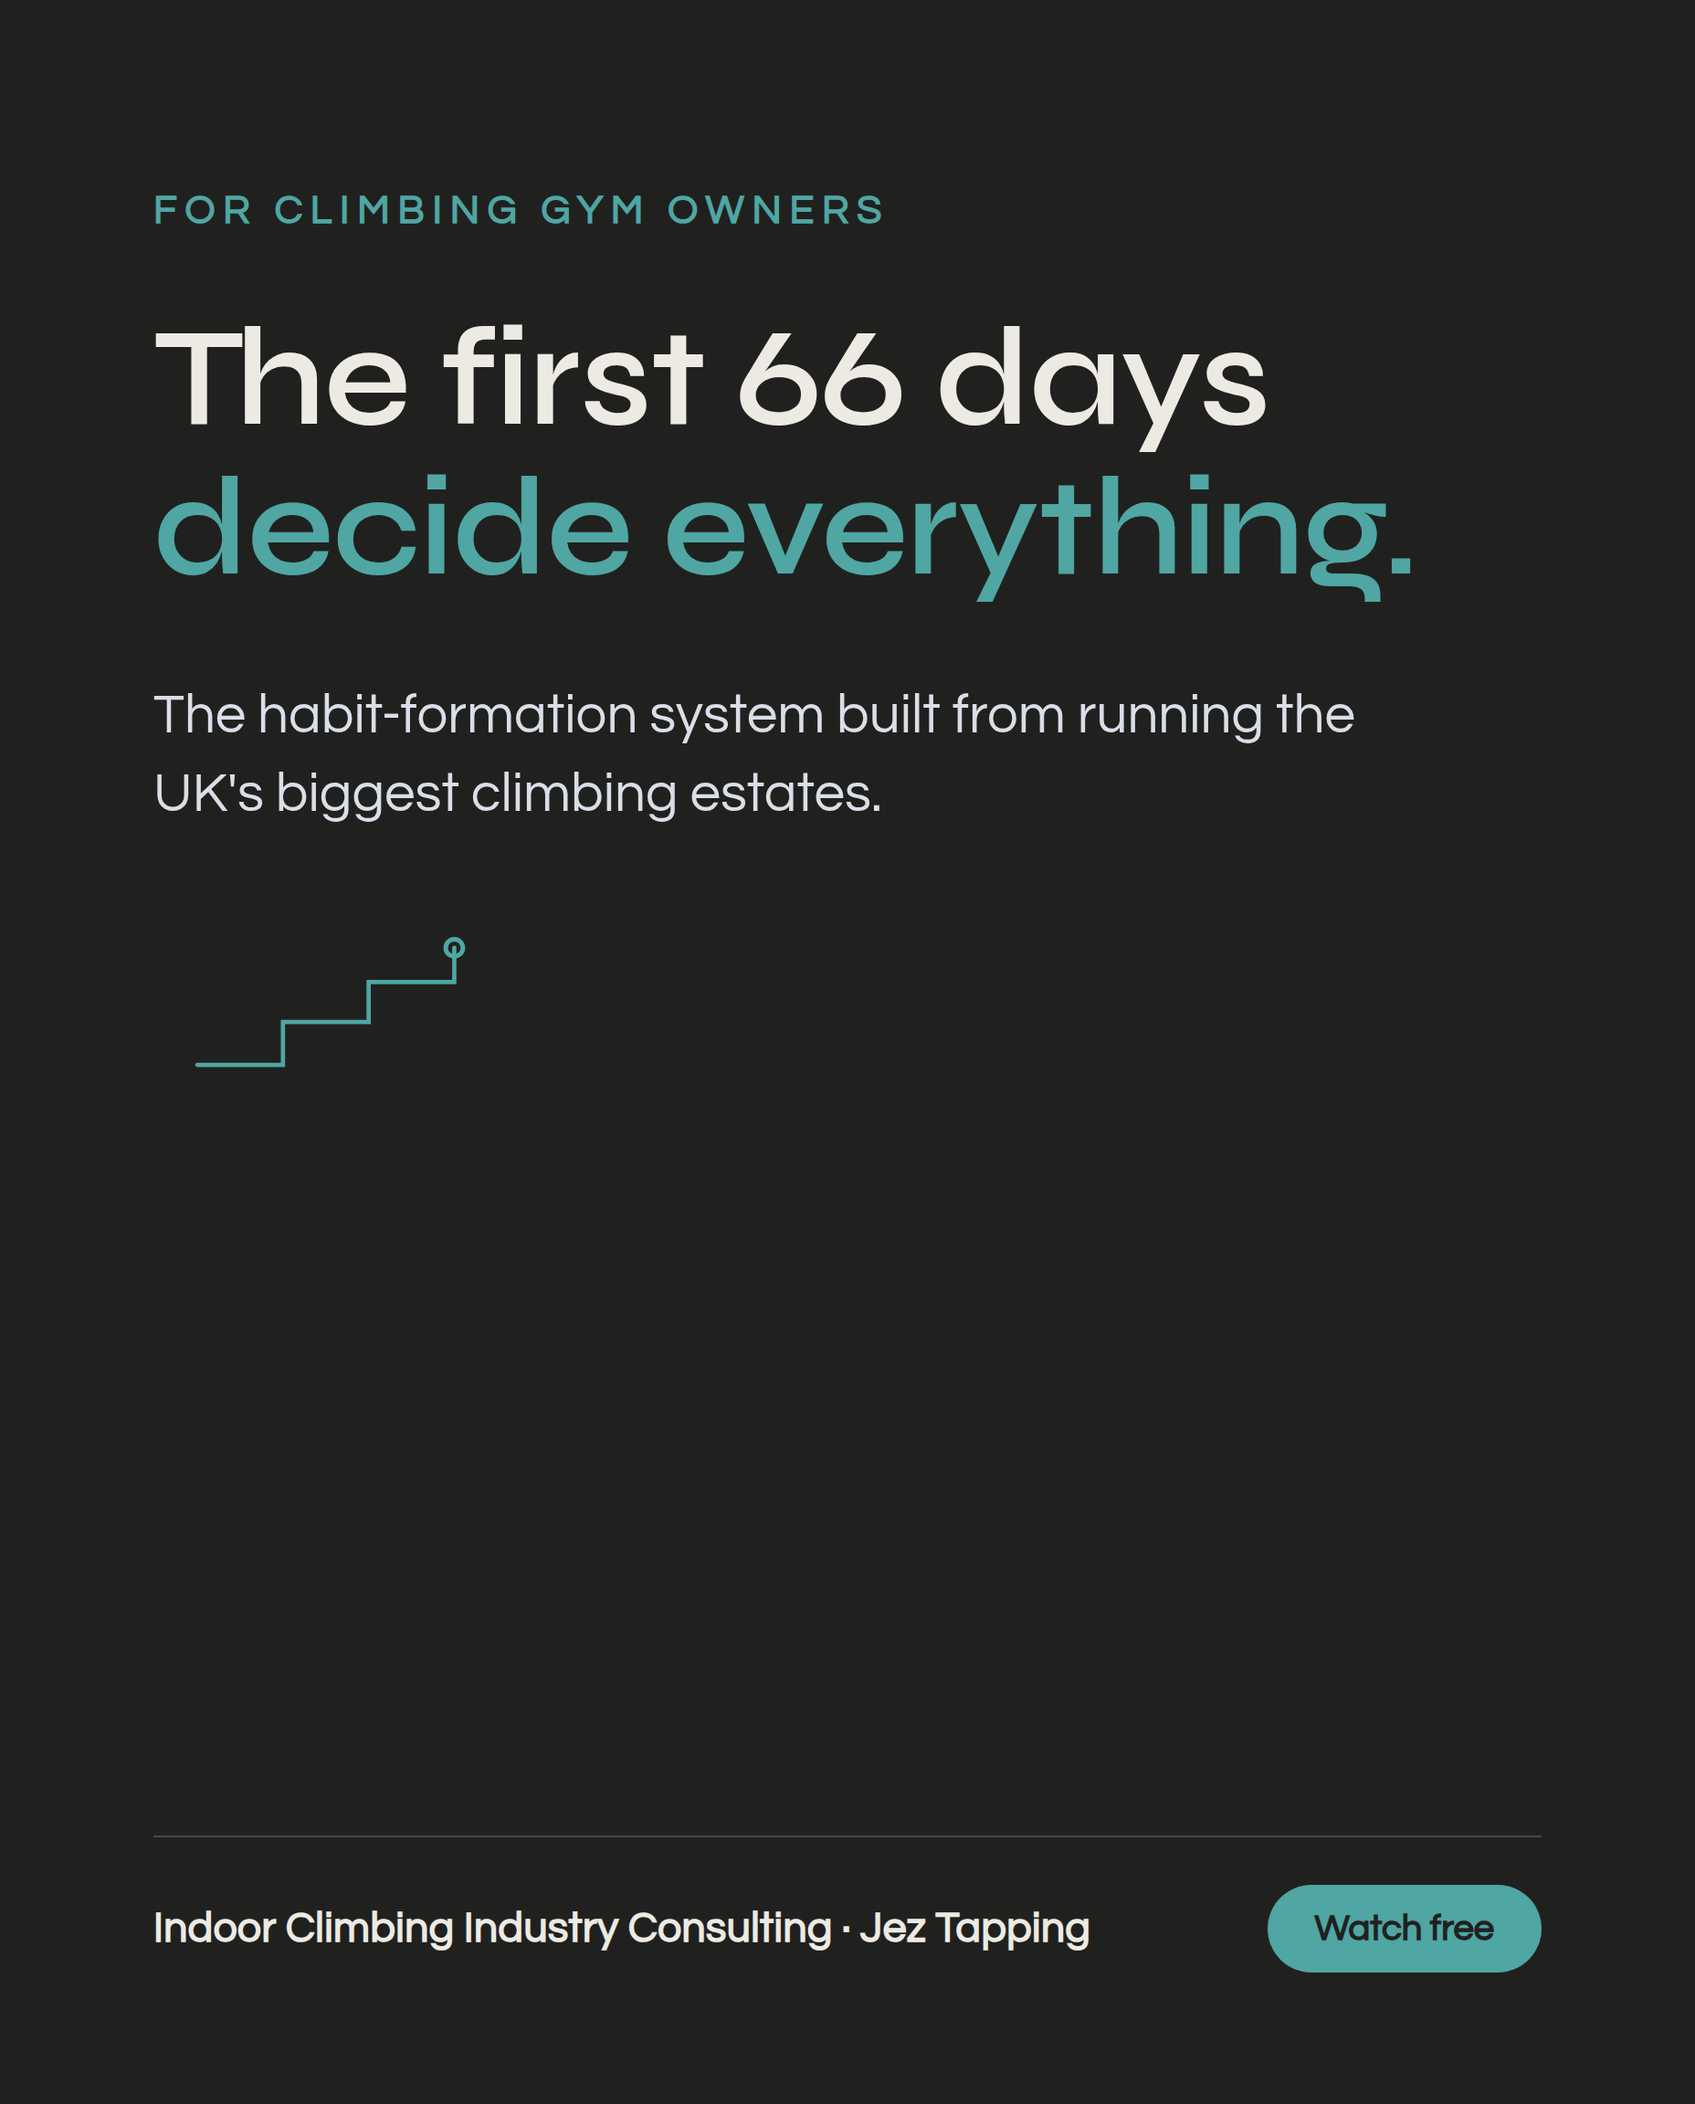
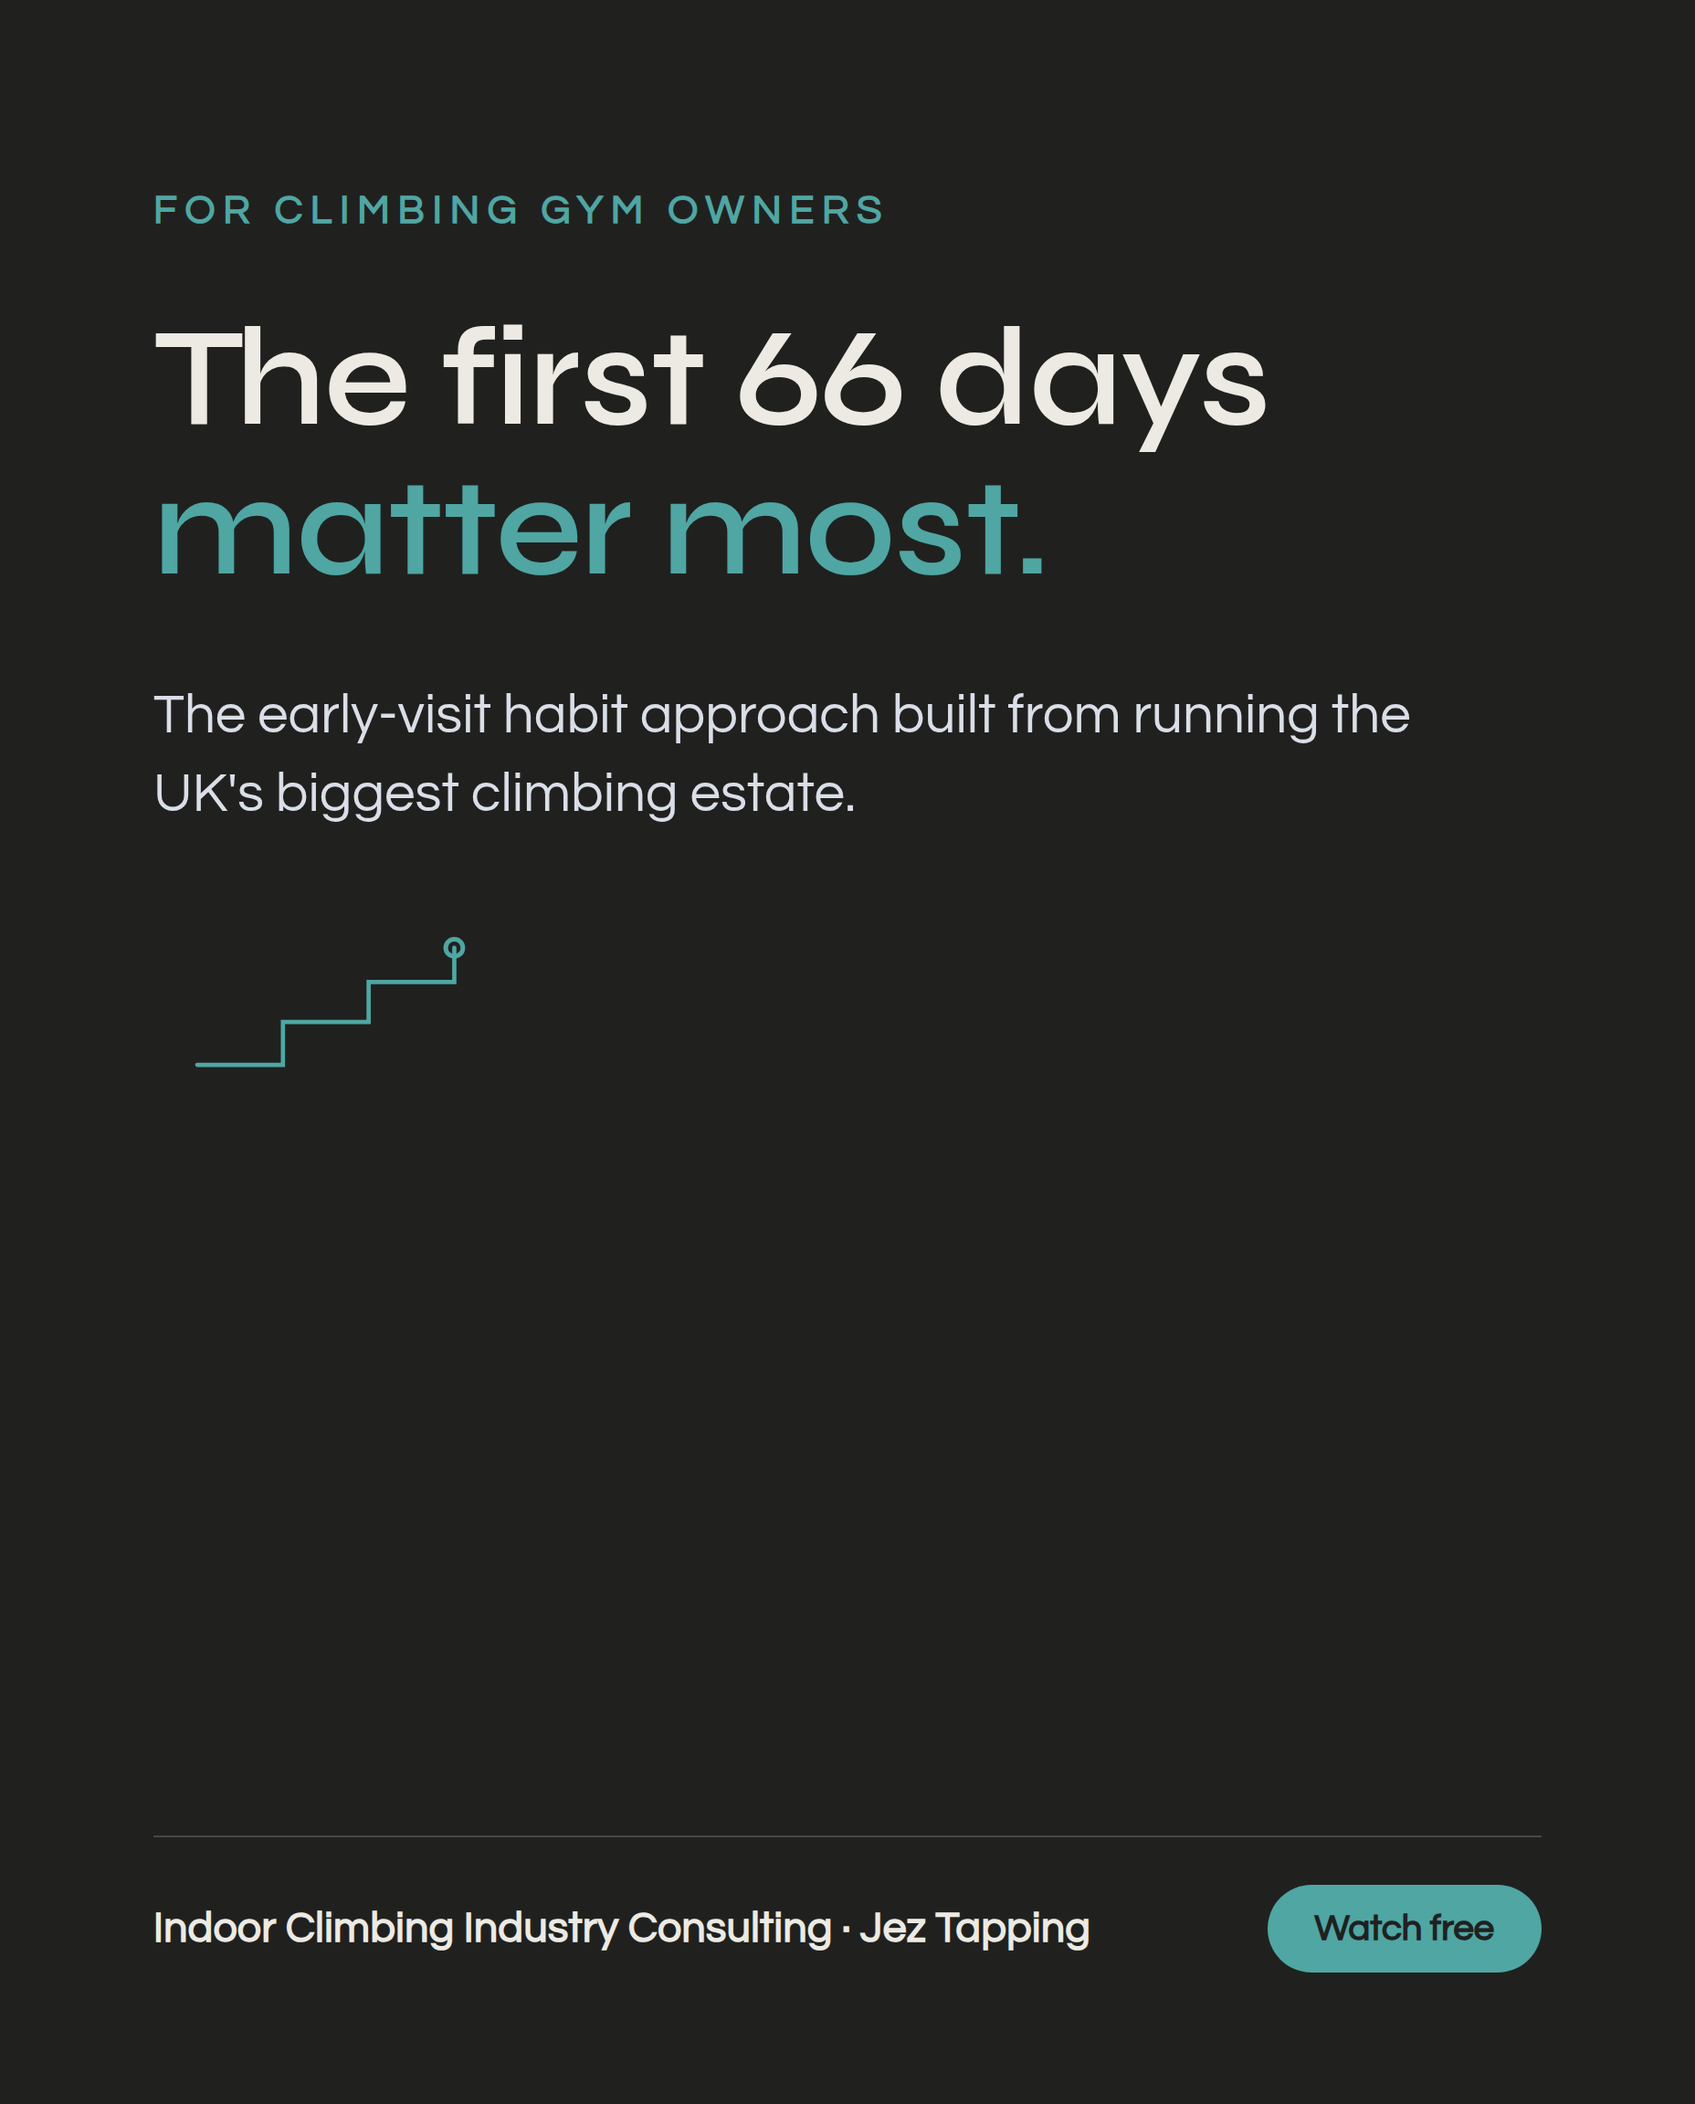
showcase: jez-tapping

Changed region(s): [[0.0938, 0.2188, 0.8125, 0.2812], [0.1875, 0.3125, 0.8125, 0.375]]

diff --git a/jez-tapping/deck.html b/jez-tapping/deck.html
@@ -82,23 +82,23 @@
 
 <script>
 const S = [
- {t:'title',title:'The First 66 Days',sub:'A masterclass for climbing gym owners on the habit-formation system that decides whether a first-timer becomes a member, built from running the UK\'s largest climbing estates.',brand:true,arc:'title'},
- {t:'normal',k:'Who this is for',title:'You are pouring effort into intro courses, then losing most of those climbers within a month.',body:'Most climbing gym marketing is built to fill intro-to-climbing courses. That part usually works. What almost no gym has is a system for the eight weeks after the course ends, which is the window that actually decides whether that person becomes a member.'},
- {t:'dark',title:'A full intro class means nothing if nobody comes back for month two.'},
+ {t:'title',title:'The First 66 Days',sub:'A masterclass for climbing gym owners on the early-visit habit that predicts who sticks around, built by someone who ran the UK\'s largest climbing estate.',brand:true,arc:'title'},
+ {t:'normal',k:'Who this is for',title:'You are pouring effort into intro courses, and losing a chunk of those climbers inside the first couple of months.',body:'Most climbing gym marketing is built to fill intro-to-climbing courses. That part usually works. What a lot of gyms don\'t have is a system for the weeks right after the course ends, which is roughly the window that decides whether that person becomes a member.'},
+ {t:'dark',title:'A full intro class means little if nobody comes back for month two.'},
 
- {t:'section',idx:'Part One',title:'Retention Is a Habit Problem, Not a Discount Problem'},
- {t:'normal',k:'The Customer Journey Framework',title:'Casual climbers, coached climbers, juniors and adults all need a different path through your gym.',body:'A drop-in visitor, a coached-program starter, a junior, and an adult are not walking the same journey even though most gyms run them through the same generic onboarding. Design the journey to the segment, and the safety, satisfaction, and growth all improve together instead of trading off against each other.'},
- {t:'normal',k:'The 66-Day Habit Formation Method',title:'The target is 66 visits inside the first two months after an intro course.',body:'Habit-formation research points to roughly 66 days of repetition before a new behaviour sticks. Applied to a climbing gym, that means the first eight weeks after someone\'s intro course are the actual conversion window, not the course itself. Everything in the system below exists to hit that visit count.'},
- {t:'dark',title:'You are not selling a membership. You are engineering a habit.'},
+ {t:'section',idx:'Part One',title:'Retention Is a Habit Problem, Not Just a Discount Problem'},
+ {t:'normal',k:'A journey built around the segment, not one generic path',title:'A casual drop-in and a structured, coached climber, junior or adult, are not walking the same journey.',body:'Most gyms run everyone through the same generic onboarding. Design the journey to the segment instead, drop-in visitors one way, coached-program starters (juniors and adults each with their own path within that) another, and safety, satisfaction, and growth tend to improve together instead of trading off against each other.'},
+ {t:'normal',k:'The 66-day approach',title:'He targets frequent visits in the first couple of months after an intro course.',body:'Habit-formation research (an average of roughly 66 days, with a wide range depending on the person and the behaviour) points to a rough target: get someone back often in that early window and the habit has a real chance to form. Applied to a climbing gym, that early stretch after the intro course, not the course itself, is where he focuses.'},
+ {t:'dark',title:'You are not just selling a membership. You are trying to build a habit.'},
 
- {t:'section',idx:'Part Two',title:'The System That Hits the 66-Day Target'},
- {t:'normal',k:'The Two-Stage Conversion Process',title:'Stage one gets them back once. Stage two makes coming back a habit.',body:'Stage one is a simple incentive to return after the intro course, something like a free month. Stage two is staff-driven: front-desk and coach interactions that escalate from small talk into real questions, turning a casual visit into a memory the climber actually keeps.'},
- {t:'normal',k:'The Touchpoint Strategy',title:'"Hello" and "how was your session?" are the first rungs of a ladder, not filler small talk.',body:'Most staff stop at the greeting. The Touchpoint Strategy trains staff to escalate: from a greeting, to a specific question about the session, to a genuinely insightful one. That escalation is what turns a transaction into a relationship, and a relationship is what survives to day 66.'},
- {t:'normal',k:'A Learn to Climb Program built on a real pathway',title:'Modelled against the NICAS Pathway, not a one-off intro class.',body:'A course that ends after one session has nowhere for the habit to attach. A program built around instructor certification and a real progression pathway, the same shape NICAS uses nationally, gives a new climber somewhere to keep climbing toward.'},
- {t:'dark',title:'Run by someone who managed the UK\'s largest climbing estate, not a theory from a book.'},
+ {t:'section',idx:'Part Two',title:'The System Built Around That Window'},
+ {t:'normal',k:'A two-stage return process',title:'Stage one gets them back once. Stage two is what makes coming back a habit.',body:'Stage one is a simple incentive to return after the intro course, something like a free month. Stage two is staff-driven: front-desk and coach interactions that escalate from small talk into real questions, turning a casual visit into a memory the climber actually keeps.'},
+ {t:'normal',k:'Touchpoints that go past "hello"',title:'"Hello" and "how was your session?" are a starting point, not the whole conversation.',body:'Most staff stop at the greeting. He trains staff to escalate: from a greeting, to a specific question about the session, to a genuinely insightful one. That escalation is what turns a transaction into a relationship, and a relationship is what tends to survive those early weeks.'},
+ {t:'normal',k:'A learn-to-climb program with somewhere to go',title:'Modelled on real national progression pathways like NICAS, not a one-off intro class.',body:'A course that ends after one session has nowhere for the habit to attach. A program built around a genuine progression pathway, the kind NICAS runs nationally for climbers, gives a new climber somewhere to keep climbing toward.'},
+ {t:'dark',title:'Built by someone who managed the UK\'s largest climbing estate, not a theory from a book.'},
 
  {t:'section',idx:'Part Three',title:'Where This Comes From'},
- {t:'normal',k:'Why Jez Tapping',title:'16 years inside indoor climbing operations, not marketing.',body:'Managed Westway Climbing Centre. Five years as Regional Climbing Manager at Everyone Active, running the largest climbing estate in the UK. Associate Trustee of NICAS. This system was built running gym floors, not writing about them.'},
+ {t:'normal',k:'Why Jez Tapping',title:'Nearly 20 years inside indoor climbing operations, not marketing.',body:'Managed Westway Climbing Centre. Five years as Regional Climbing Manager at Everyone Active, running the UK\'s largest climbing estate. A trustee of NICAS. This approach was built running gym floors, not writing about them.'},
 
  {t:'section',idx:'Your Next Step',title:'Build Your Own 66-Day System'},
  {t:'normal',k:'How it works',title:'Start with a call, then build the retention system for your own gym.',body:'A free consultation call is the starting point. From there, engagements range from a monthly Core Support retainer through to a full Business Performance Review or a Systems and Structure project built around your gym specifically.'},

diff --git a/jez-tapping/index.html b/jez-tapping/index.html
@@ -74,7 +74,7 @@
   </div>
 
   <h1>The First 66 Days Masterclass</h1>
-  <p class="framing">Here is what I mentioned in my email: the masterclass, the numbers, and the auction data that did not fit in the message. You already built the hard part: the Customer Journey Framework, the 66-Day Habit Formation Method, and the Touchpoint Strategy. What you don't have is a system to bring in gym owners who have never heard of you and convert them into your Strategic Partnership clients. This is that system.</p>
+  <p class="framing">Here is what I mentioned in my email: the masterclass, the numbers, and the auction data that did not fit in the message. You already built the hard part: the customer-journey approach, the 66-day habit-forming target, the staff touchpoints. What you don't have is a system to bring in gym owners who have never heard of you and convert them into your Strategic Partnership clients. This is that system.</p>
 
   <div class="section">
     <div class="section-label">The masterclass, already built</div>
@@ -95,7 +95,7 @@
   <div class="section">
     <div class="section-label">What the paid engine could produce</div>
     <h2>The numbers</h2>
-    <p>Estimates from coaching businesses running paid traffic into a masterclass, scoped to a climbing-gym-owner audience and anchored to your published Strategic Partnership retainer (£1,200/month, roughly $1,500 USD). Actuals would calibrate to your real numbers after the first month.</p>
+    <p>Estimates from coaching businesses running paid traffic into a masterclass, scoped to a climbing-gym-owner audience and anchored to your published Strategic Partnership retainer (£1,200/month, roughly $1,600 USD). Actuals would calibrate to your real numbers after the first month.</p>
     <table>
       <thead>
         <tr><th>Metric</th><th>Conservative</th><th>Moderate</th></tr>
@@ -108,28 +108,30 @@
         <tr><td>Masterclass viewers</td><td>18</td><td>40</td></tr>
         <tr><td>Book-a-call rate</td><td>10%</td><td>20%</td></tr>
         <tr><td>New consultation calls / month</td><td>~2</td><td>~8</td></tr>
+        <tr><td>Call-to-client rate (assumed)</td><td>~50%</td><td>~25%</td></tr>
         <tr class="hl"><td>New recurring revenue added each month</td><td>~£1,200 / mo</td><td>~£2,400 / mo</td></tr>
       </tbody>
     </table>
-    <p class="fn">The revenue row uses only your published £1,200/month Strategic Partnership retainer (project engagements from £1,500 would add more on top). One new client roughly covers the month's ad spend. Your free-consultation process stays exactly as it is.</p>
+    <p class="fn">The revenue row uses only your published £1,200/month Strategic Partnership retainer (project engagements from £1,200 would add more on top). The call-to-client rate is a rough consulting-industry assumption, not a measured number. One new client roughly covers the month's ad spend. Your free-consultation process stays exactly as it is.</p>
   </div>
 
   <div class="section">
     <div class="section-label">Who is buying the climbing gym owner's attention</div>
     <h2>The auction, verified</h2>
-    <p>What the Meta auction around climbing gym owners actually looks like, from a live domain-scoped check against you and the vertical's other named consultants this month.</p>
+    <p>What the Meta auction around climbing gym owners actually looks like, from a check against you and 4 other consultants and agencies serving climbing gym owners this month.</p>
     <table>
       <thead>
         <tr><th>Name</th><th>Lane</th><th>Active Meta ads</th></tr>
       </thead>
       <tbody>
-        <tr><td>Rockwerx, Vertical Solutions</td><td>Gym-opening / capital-project consulting</td><td class="not-running">Not running, 0</td></tr>
+        <tr><td>Rockwerx</td><td>Gym-opening / capital-project consulting</td><td class="not-running">Not running, 0</td></tr>
+        <tr><td>Vertical Solutions</td><td>Gym-opening / capital-project consulting</td><td class="not-running">Not running, 0</td></tr>
         <tr><td>Keystone Climbing Consultants</td><td>Retail merchandising consulting</td><td class="not-running">Not running, 0</td></tr>
         <tr><td>Adventure A Day Marketing</td><td>Marketing agency serving climbing gyms</td><td class="not-running">Not running, 0</td></tr>
         <tr class="you"><td>Jez Tapping / Indoor Climbing Industry Consulting</td><td>Business coaching for climbing gym owners</td><td class="not-running">Not running, 0</td></tr>
       </tbody>
     </table>
-    <p class="fn">Nobody teaching climbing gym owners, and none of the adjacent consultants or agencies serving them, is running a Meta ad right now, as far as I can find. That lane is wide open for you, and the one piece missing is paid traffic into the masterclass above.</p>
+    <p class="fn">Nobody teaching climbing gym owners is running a Meta ad right now, as far as I can find, and neither are the 4 other consultants and agencies above. That lane is wide open for you, and the one piece missing is paid traffic into the masterclass above.</p>
   </div>
 
   <div class="section calendly-section">
